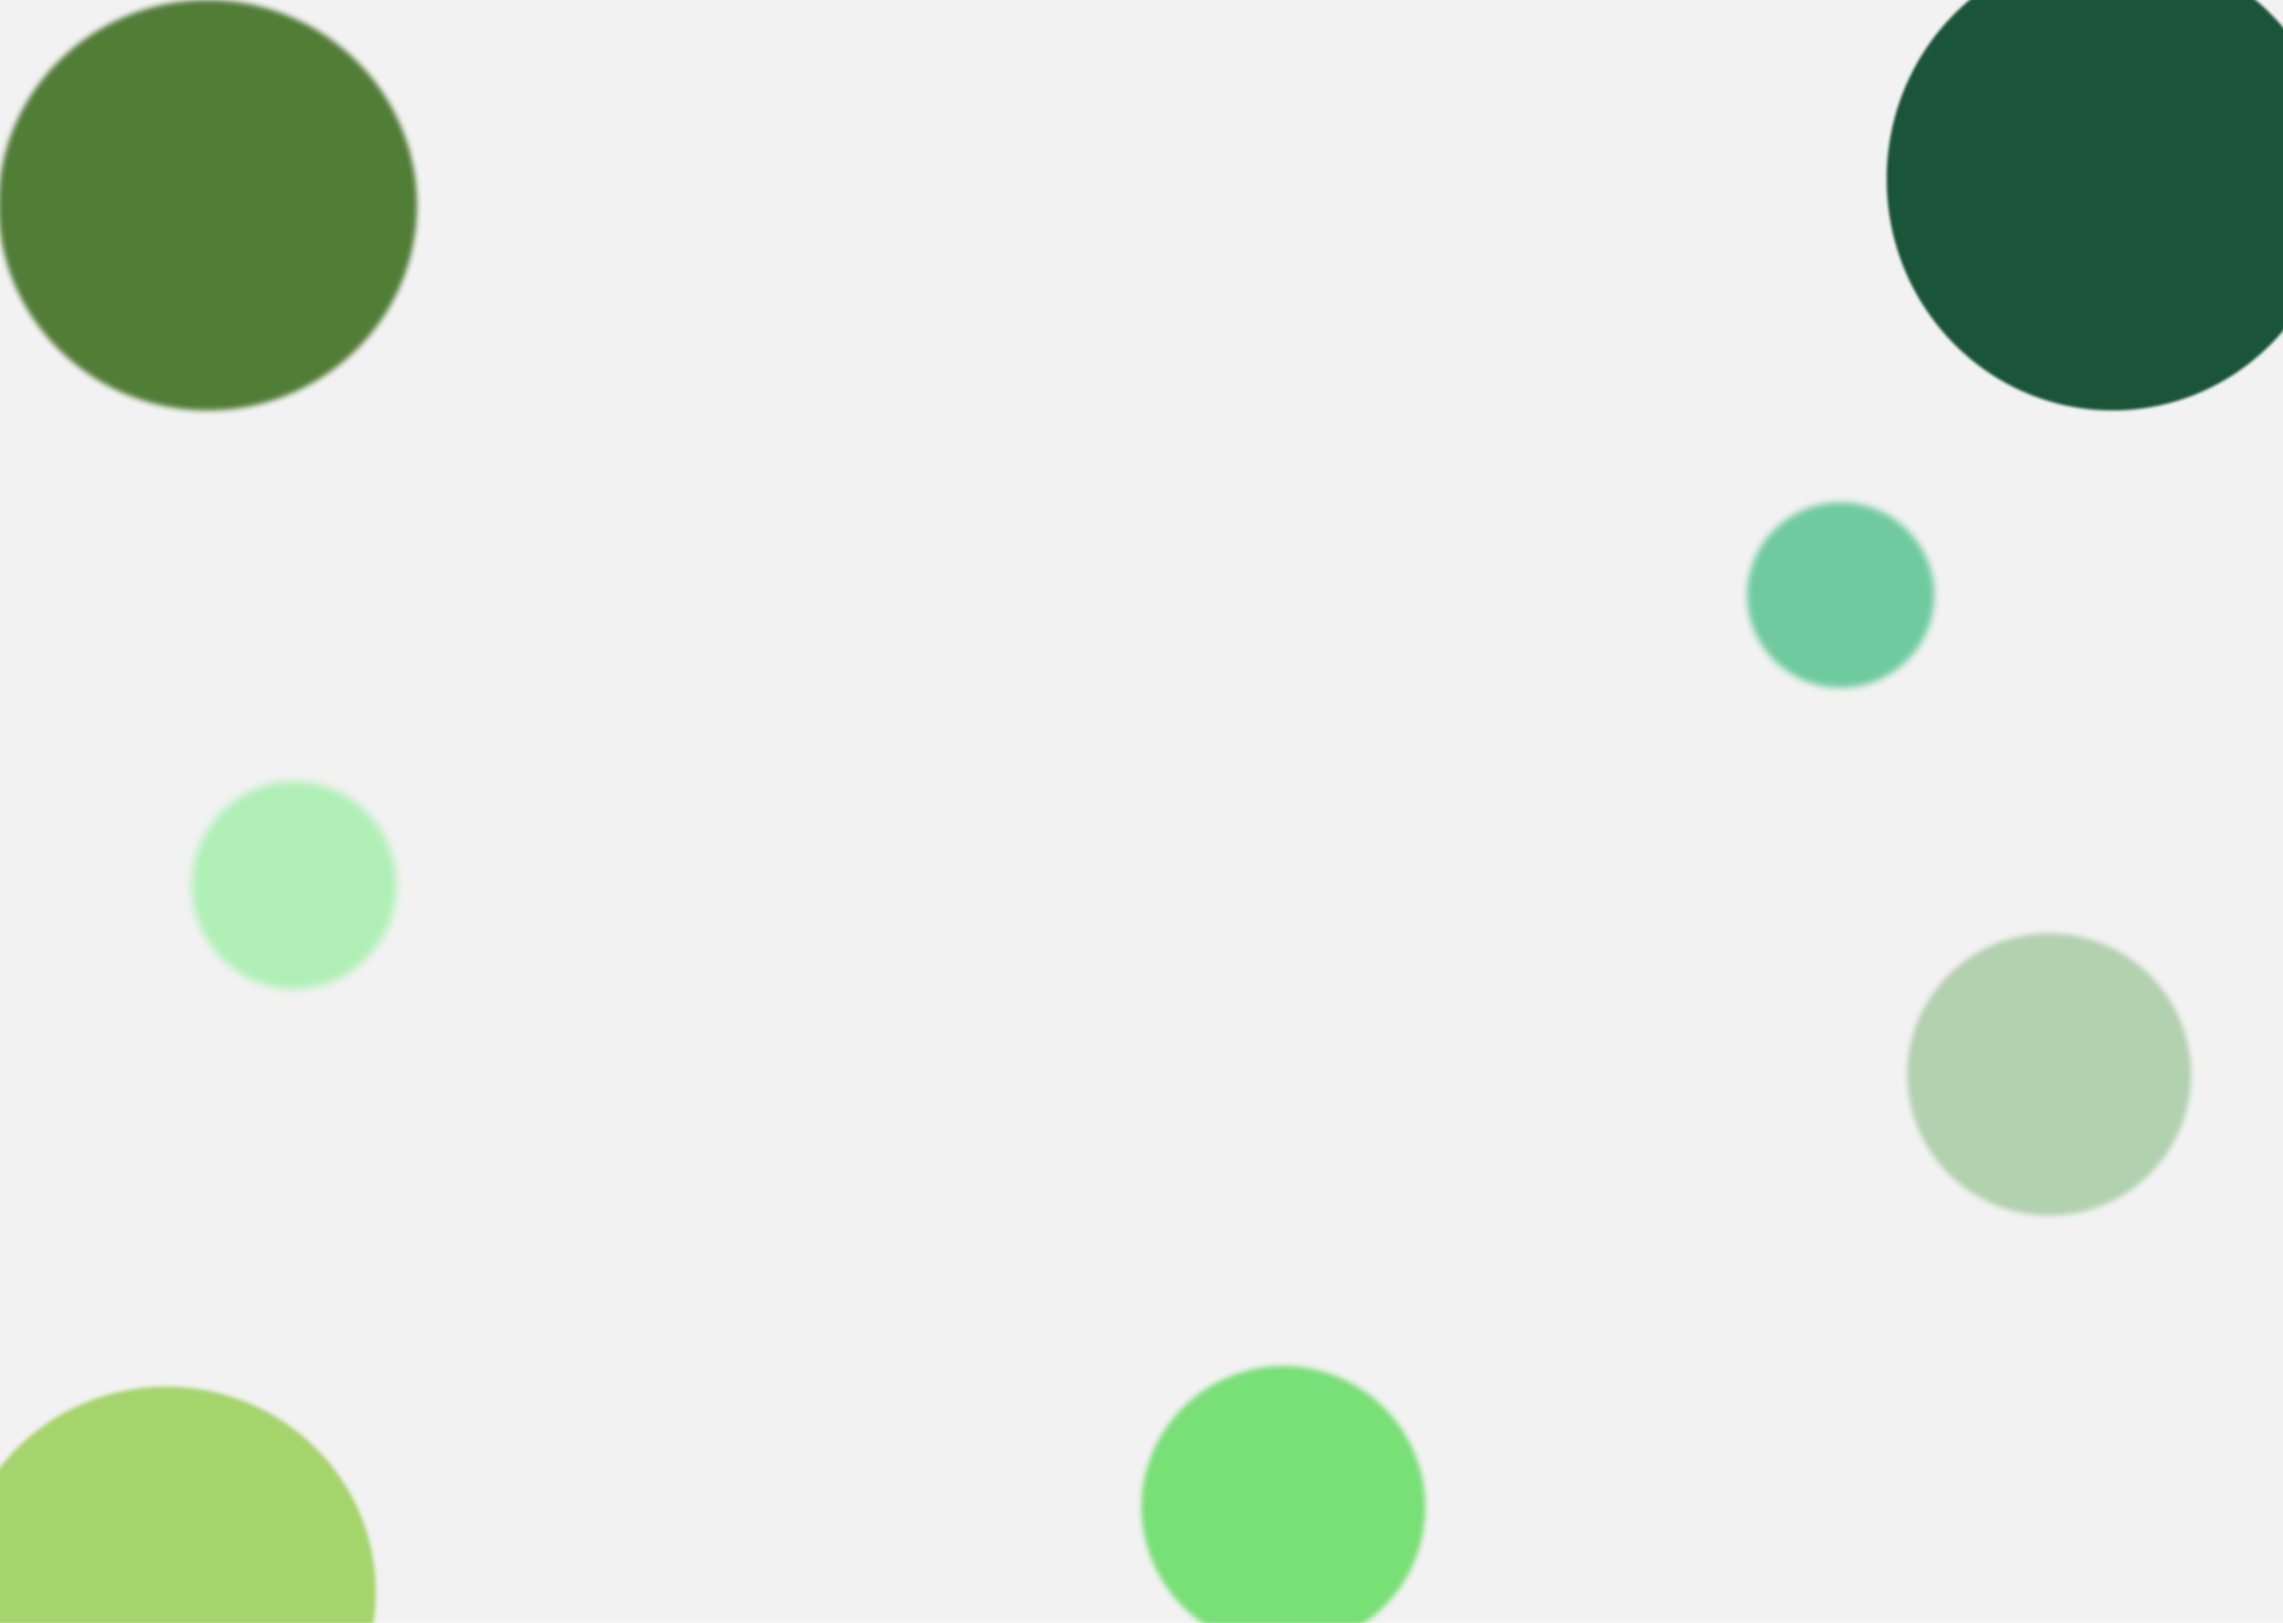
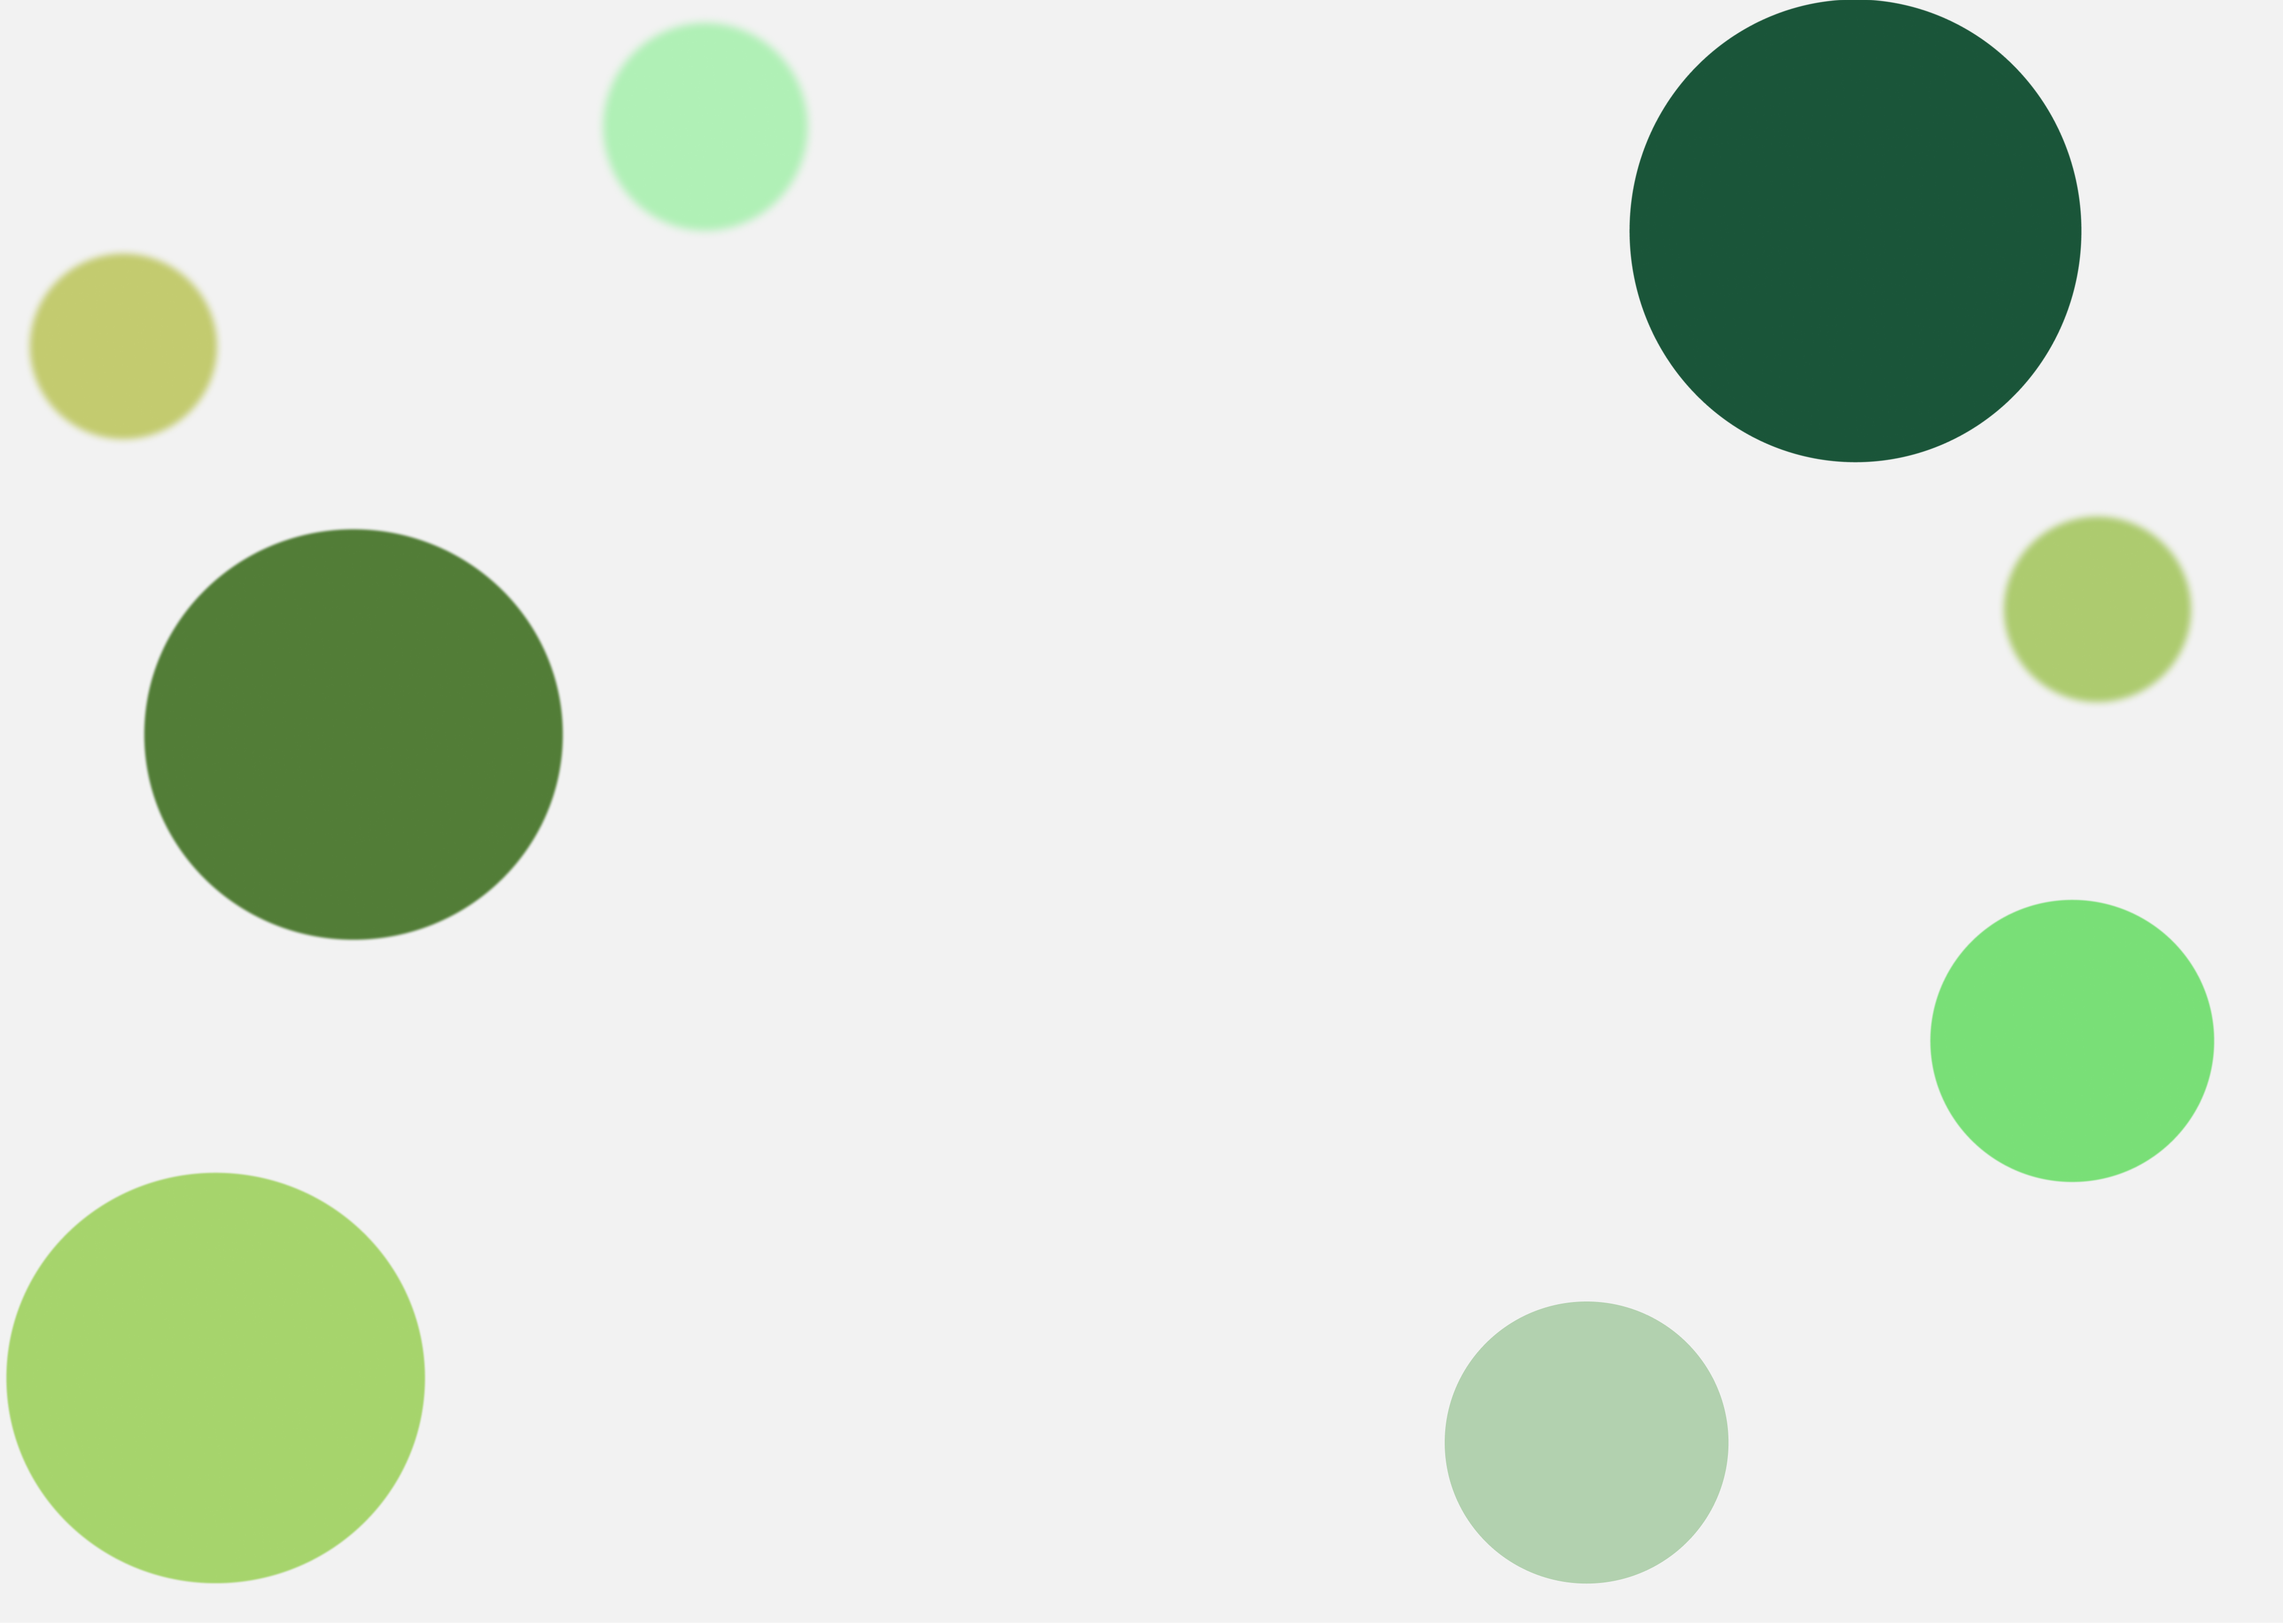
Mudanças no login, bg sem responsividade

diff --git a/Login/login.html b/Login/login.html
@@ -23,14 +23,14 @@
       >
         <input
           type="Email"
-          class="form-control col m-2"
+          class="form-control col-lg m-2"
           placeholder="Digite seu email"
           aria-label="Digite seu email"
           aria-describedby="basic-addon1"
         />
         <input
           type="password"
-          class="form-control col m-2"
+          class="form-control col-lg m-2"
           placeholder="Digite sua senha"
           aria-label="Digite sua senha"
           aria-describedby="basic-addon1"

diff --git a/Login/index.css b/Login/index.css
@@ -10,9 +10,20 @@ body {
 .body-login {
   background-image: url("resources/Desktop-3.png");
   background-repeat: no-repeat;
-  background-size: cover;
+  background-position: center;
+  background-size: 85%;
+  background-color: rgba(242, 242, 242, 1);
   height: 100vh;
 }
+
+@media all and (max-width: 500px) {
+  .body-login {
+    background-image: url("resources/iPhone\ 14\ -\ 1.png");
+    background-position: center;
+    background-size: cover;
+  }
+}
+
 .logo,
 .titletext {
   font-family: righteous;

diff --git a/style.css b/style.css
@@ -1,10 +1,10 @@
-@import url('https://fonts.googleapis.com/css2?family=Righteous&display=swap');
-.economiks{
-    background-color: rgb(177, 206, 196);
+@import url("https://fonts.googleapis.com/css2?family=Righteous&display=swap");
+.economiks {
+  background-color: rgb(177, 206, 196);
 }
-.economikssub{
-    background-color: rgb(139, 160, 152);
+.economikssub {
+  background-color: rgb(139, 160, 152);
 }
-.titletext{
-    font-family: Righteous;
+.titletext {
+  font-family: Righteous;
 }
